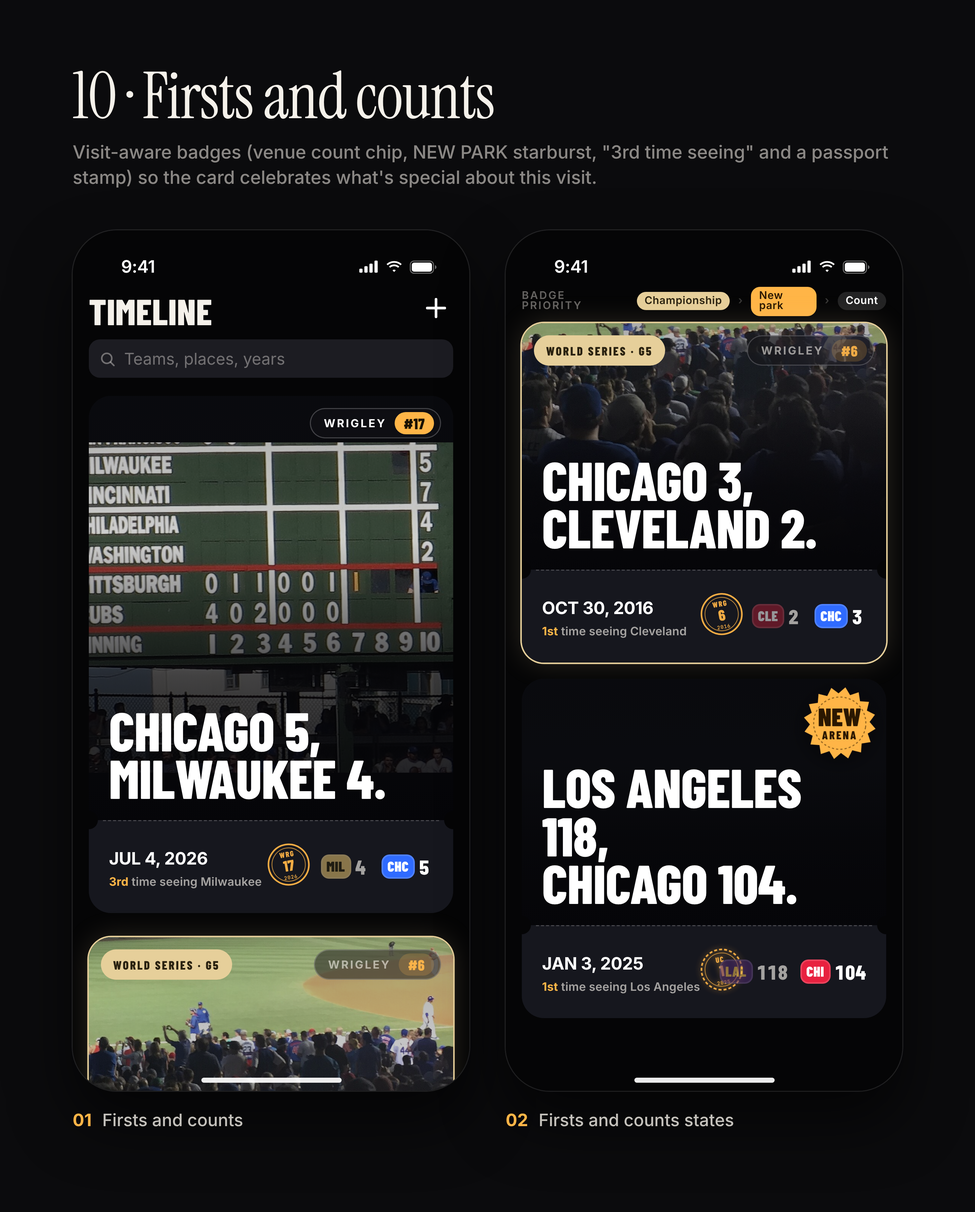
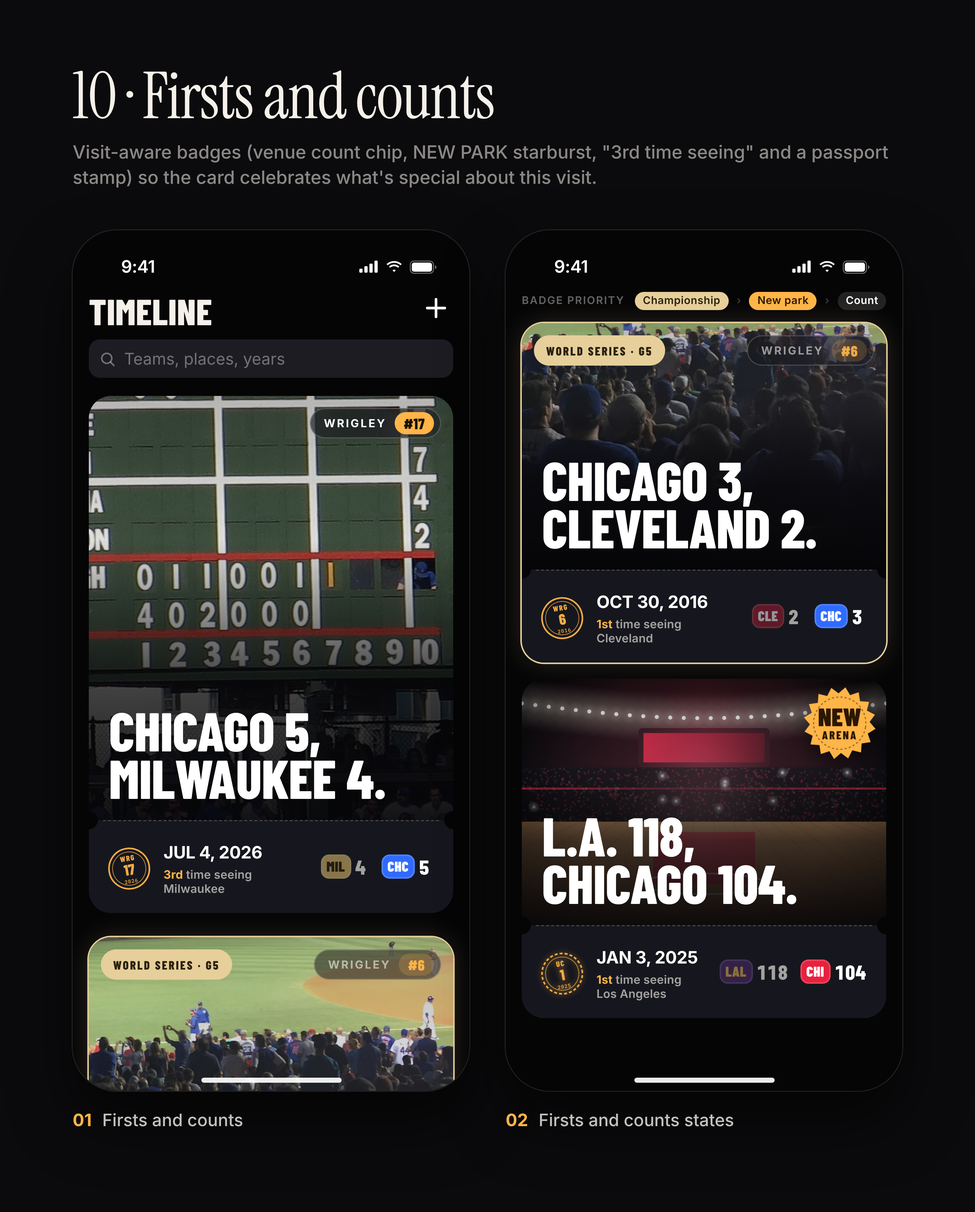
Timeline card tweaks: 05, 06 and in-progress mockups
Claude-Session: https://claude.ai/code/session_01YKCsRGYnDsF5Pryete24Wa

diff --git a/mockups/timeline-cards/features/04-people-photos/v1-main.html b/mockups/timeline-cards/features/04-people-photos/v1-main.html
@@ -1,0 +1,60 @@
+<!doctype html>
+<html><head><meta charset="utf-8"><title>People and photos</title>
+<link rel="stylesheet" href="../../../kit/kit.css">
+<style>
+:root{--trophy:#e6c987;--stub:#171926}
+.hdr h1{position:absolute;left:16px;top:56px;font:800 36px/40px var(--f-cond);letter-spacing:.2px;text-transform:uppercase}
+.hdr .plus{position:absolute;right:16px;top:60px;width:32px;height:32px;display:grid;place-items:center}
+.search{position:absolute;left:16px;right:16px;top:99px;height:36px;border-radius:10px;background:rgba(118,118,128,.24);display:flex;align-items:center;gap:8px;padding:0 10px;color:var(--text-3);font:400 16px var(--f-ui)}
+.card{position:absolute;left:16px;width:361px;border-radius:22px}
+.card.big{box-shadow:0 0 0 1.5px var(--trophy)}
+.clip{border-radius:22px;overflow:hidden;position:relative;background:var(--ink)}
+.photo{position:relative;width:100%;overflow:hidden;background:#0c0d12}
+.photo canvas,.photo>.ph{position:absolute;inset:0;width:100%;height:100%}
+.scrim{position:absolute;inset:0;background:linear-gradient(180deg,rgba(5,5,6,0) 38%,rgba(5,5,6,.55) 62%,rgba(5,5,6,.94) 100%)}
+.scrim.top{background:linear-gradient(180deg,rgba(5,5,6,.45) 0,rgba(5,5,6,0) 22%),linear-gradient(180deg,rgba(5,5,6,0) 38%,rgba(5,5,6,.55) 62%,rgba(5,5,6,.94) 100%)}
+.hl{position:absolute;left:24px;right:24px;bottom:22px;font:800 54px/.93 var(--f-cond);text-transform:uppercase;letter-spacing:.2px;color:#fff}
+.hl.sm{font-size:54px}
+.badge{position:absolute;left:14px;top:14px;height:26px;padding:0 11px;border-radius:13px;display:flex;align-items:center;gap:6px;font:700 11px var(--f-ui);letter-spacing:1.3px;text-transform:uppercase;color:#2a2008;background:linear-gradient(180deg,#f3dba5,#d9b66a)}
+.tile{display:inline-grid;place-items:center;height:22px;min-width:34px;padding:0 6px;border-radius:6px;font:800 13px/1 var(--f-cond);letter-spacing:.8px}
+.stub{position:relative;background:var(--stub);
+ -webkit-mask-image:var(--m);-webkit-mask-composite:source-in;mask-image:var(--m);mask-composite:intersect}
+.stub::before{content:"";position:absolute;left:12px;right:12px;top:0;border-top:1.5px dashed rgba(255,255,255,.2)}
+.tabs{}
+svg.i{width:13px;height:13px;stroke:currentColor;fill:none;stroke-width:1.7;stroke-linecap:round;stroke-linejoin:round;flex:none}
+
+.stub{height:100px;--m:radial-gradient(circle at 0 0,transparent 8px,#000 8.5px),radial-gradient(circle at 100% 0,transparent 8px,#000 8.5px)}
+.sl{position:absolute;left:18px;top:0;bottom:0;display:flex;flex-direction:column;justify-content:center;gap:12px;padding-top:2px}
+.date{font:700 16px/1 var(--f-tight);letter-spacing:.2px;text-transform:uppercase}
+.pp{display:flex;align-items:center;gap:11px}
+.av{display:flex}
+.av i{width:24px;height:24px;border-radius:50%;display:grid;place-items:center;font:800 11px/1 var(--f-ui);font-style:normal;color:#10101a;box-shadow:0 0 0 2px var(--stub);margin-left:-7px}
+.av i:first-child{margin-left:0}
+.av i.ghost{background:transparent;border:1.5px dashed rgba(255,255,255,.3);color:var(--text-3);box-shadow:none}
+.av i.ghost svg{width:11px;height:11px}
+.cnt{display:flex;align-items:center;gap:5px;font:600 12.5px/1 var(--f-ui);color:var(--text);padding-left:11px;border-left:1px solid var(--line-2);height:16px;font-variant-numeric:tabular-nums}
+.cnt svg{color:var(--text-2);width:14px;height:14px}
+.add{display:flex;align-items:center;gap:5px;height:24px;padding:0 10px 0 8px;border-radius:12px;border:1.5px dashed rgba(255,181,71,.6);color:var(--signal);font:700 12px/1 var(--f-ui)}
+.add svg{width:14px;height:14px}
+.bug{position:absolute;right:16px;top:0;bottom:0;display:flex;align-items:center;gap:7px;padding-top:2px}
+.bug .sc{font:800 22px/1 var(--f-cond);font-variant-numeric:tabular-nums;color:var(--text-2)}
+.bug .me{color:#fff}
+.bug .tile.rt{box-shadow:0 0 0 1.5px var(--stub),0 0 0 3px var(--signal)}
+.bug .gap{width:2px}
+.poly{position:absolute;right:12px;bottom:16px;width:74px;height:70px}
+.pl{position:absolute;width:46px;height:56px;padding:3px 3px 11px;background:#f3ece0;border-radius:2px;box-shadow:0 4px 10px rgba(0,0,0,.55),0 0 0 .5px rgba(0,0,0,.4)}
+.pl div{width:100%;height:100%;background-size:cover}
+.pl.a{left:0;bottom:6px;transform:rotate(-10deg)}
+.pl.b{left:13px;bottom:2px;transform:rotate(-2deg)}
+.pl.c{left:26px;bottom:0;transform:rotate(8deg)}
+.pl em{position:absolute;right:-6px;top:-7px;font:800 10px/1 var(--f-ui);font-style:normal;color:#2a1a00;background:var(--signal);padding:4px 6px;border-radius:9px;box-shadow:0 2px 6px rgba(0,0,0,.5)}
+</style></head>
+<body class="phone">
+<div class="hdr"><h1>Timeline</h1><div class="plus"><svg width="22" height="22" viewBox="0 0 24 24" fill="none" stroke="#fff" stroke-width="2.4" stroke-linecap="round"><path d="M12 4v16M4 12h16"/></svg></div></div>
+<div class="search"><svg width="18" height="18" viewBox="0 0 24 24" fill="none" stroke="currentColor" stroke-width="2" stroke-linecap="round"><circle cx="11" cy="11" r="7"/><path d="M20 20l-4-4"/></svg>Teams, places, years</div><div class="card" style="top:157px"><div class="clip">
+<div class="photo" style="height:420px"><img class="ph graded" src="../../../photos/wrigley-scoreboard.jpg" style="object-position:35% 50%"><div class="scrim top"></div><div class="hl" style="font-size:48px">Chicago 5,<br>Milwaukee 4.</div><div class="poly"><div class="pl a"><div style="background-image:url(../../../photos/wrigley-bleachers.jpg);background-position:60% 50%;background-size:cover"></div></div><div class="pl b"><div style="background-image:url(../../../photos/wrigley-night-2.jpg);background-position:72% 66%;background-size:230%"></div></div><div class="pl c"><div style="background-image:url(../../../photos/wrigley-night.jpg);background-position:30% 62%;background-size:210%"></div><em>+59</em></div></div></div>
+<div class="stub"><div class="sl"><span class="date">Jul 4, 2026</span><div class="pp"><span class="av"><i style="background:#b79cff">D</i><i style="background:#8fe3a0">R</i></span><span class="cnt"><svg class="i" viewBox="0 0 24 24"><path d="M4 8.5A1.5 1.5 0 0 1 5.5 7H8l1.4-2h5.2L16 7h2.5A1.5 1.5 0 0 1 20 8.5v9a1.5 1.5 0 0 1-1.5 1.5h-13A1.5 1.5 0 0 1 4 17.5z"/><circle cx="12" cy="13" r="3.4"/></svg>63 photos</span></div></div><div class="bug"><span class="tile" style="background:#f4c24b;color:#1a1405">MIL</span><span class="sc">4</span><span class="gap"></span><span class="tile rt" style="background:#2f6bff;color:#fff">CHC</span><span class="sc me">5</span></div></div></div></div><div class="card big" style="top:701px"><div class="clip">
+<div class="photo" style="height:420px"><div style="position:absolute;inset:0;background:url(../../../photos/wrigley-night.jpg) -306px -418px/785px 1046px no-repeat"></div><div class="scrim top"></div><div class="badge"><svg width="11" height="11" viewBox="0 0 24 24" fill="#2a2008"><path d="M12 2l2.9 6.6 7.1.6-5.4 4.7 1.6 7L12 17.3 5.8 20.9l1.6-7L2 9.2l7.1-.6z"/></svg>World Series</div><div class="hl" style="font-size:48px">Chicago 3,<br>Cleveland 2.</div><div class="poly"><div class="pl a"><div style="background-image:url(../../../photos/wrigley-bleachers.jpg);background-position:30% 50%;background-size:cover"></div></div><div class="pl b"><div style="background-image:url(../../../photos/wrigley-night-2.jpg);background-position:72% 66%;background-size:230%"></div></div><div class="pl c"><div style="background-image:url(../../../photos/wrigley-scoreboard-wide.jpg);background-position:25% 60%;background-size:240%"></div><em>+59</em></div></div></div>
+<div class="stub"><div class="sl"><span class="date">Oct 30, 2016</span><div class="pp"><span class="av"><i style="background:#8fe3a0">R</i></span><span class="cnt"><svg class="i" viewBox="0 0 24 24"><path d="M4 8.5A1.5 1.5 0 0 1 5.5 7H8l1.4-2h5.2L16 7h2.5A1.5 1.5 0 0 1 20 8.5v9a1.5 1.5 0 0 1-1.5 1.5h-13A1.5 1.5 0 0 1 4 17.5z"/><circle cx="12" cy="13" r="3.4"/></svg>63 photos</span></div></div><div class="bug"><span class="tile" style="background:#0c2340;color:#ff5a6e">CLE</span><span class="sc">2</span><span class="gap"></span><span class="tile rt" style="background:#2f6bff;color:#fff">CHC</span><span class="sc me">3</span></div></div></div></div>
+<script src="../../../kit/kit.js"></script>
+</body></html>

diff --git a/mockups/timeline-cards/features/04-people-photos/v2-states.html b/mockups/timeline-cards/features/04-people-photos/v2-states.html
@@ -1,0 +1,59 @@
+<!doctype html>
+<html><head><meta charset="utf-8"><title>People and photos states</title>
+<link rel="stylesheet" href="../../../kit/kit.css">
+<style>
+:root{--trophy:#e6c987;--stub:#171926}
+.hdr h1{position:absolute;left:16px;top:56px;font:800 36px/40px var(--f-cond);letter-spacing:.2px;text-transform:uppercase}
+.hdr .plus{position:absolute;right:16px;top:60px;width:32px;height:32px;display:grid;place-items:center}
+.search{position:absolute;left:16px;right:16px;top:99px;height:36px;border-radius:10px;background:rgba(118,118,128,.24);display:flex;align-items:center;gap:8px;padding:0 10px;color:var(--text-3);font:400 16px var(--f-ui)}
+.card{position:absolute;left:16px;width:361px;border-radius:22px}
+.card.big{box-shadow:0 0 0 1.5px var(--trophy)}
+.clip{border-radius:22px;overflow:hidden;position:relative;background:var(--ink)}
+.photo{position:relative;width:100%;overflow:hidden;background:#0c0d12}
+.photo canvas,.photo>.ph{position:absolute;inset:0;width:100%;height:100%}
+.scrim{position:absolute;inset:0;background:linear-gradient(180deg,rgba(5,5,6,0) 38%,rgba(5,5,6,.55) 62%,rgba(5,5,6,.94) 100%)}
+.scrim.top{background:linear-gradient(180deg,rgba(5,5,6,.45) 0,rgba(5,5,6,0) 22%),linear-gradient(180deg,rgba(5,5,6,0) 38%,rgba(5,5,6,.55) 62%,rgba(5,5,6,.94) 100%)}
+.hl{position:absolute;left:24px;right:24px;bottom:22px;font:800 54px/.93 var(--f-cond);text-transform:uppercase;letter-spacing:.2px;color:#fff}
+.hl.sm{font-size:54px}
+.badge{position:absolute;left:14px;top:14px;height:26px;padding:0 11px;border-radius:13px;display:flex;align-items:center;gap:6px;font:700 11px var(--f-ui);letter-spacing:1.3px;text-transform:uppercase;color:#2a2008;background:linear-gradient(180deg,#f3dba5,#d9b66a)}
+.tile{display:inline-grid;place-items:center;height:22px;min-width:34px;padding:0 6px;border-radius:6px;font:800 13px/1 var(--f-cond);letter-spacing:.8px}
+.stub{position:relative;background:var(--stub);
+ -webkit-mask-image:var(--m);-webkit-mask-composite:source-in;mask-image:var(--m);mask-composite:intersect}
+.stub::before{content:"";position:absolute;left:12px;right:12px;top:0;border-top:1.5px dashed rgba(255,255,255,.2)}
+.tabs{}
+svg.i{width:13px;height:13px;stroke:currentColor;fill:none;stroke-width:1.7;stroke-linecap:round;stroke-linejoin:round;flex:none}
+
+.stub{height:100px;--m:radial-gradient(circle at 0 0,transparent 8px,#000 8.5px),radial-gradient(circle at 100% 0,transparent 8px,#000 8.5px)}
+.sl{position:absolute;left:18px;top:0;bottom:0;display:flex;flex-direction:column;justify-content:center;gap:12px;padding-top:2px}
+.date{font:700 16px/1 var(--f-tight);letter-spacing:.2px;text-transform:uppercase}
+.pp{display:flex;align-items:center;gap:11px}
+.av{display:flex}
+.av i{width:24px;height:24px;border-radius:50%;display:grid;place-items:center;font:800 11px/1 var(--f-ui);font-style:normal;color:#10101a;box-shadow:0 0 0 2px var(--stub);margin-left:-7px}
+.av i:first-child{margin-left:0}
+.av i.ghost{background:transparent;border:1.5px dashed rgba(255,255,255,.3);color:var(--text-3);box-shadow:none}
+.av i.ghost svg{width:11px;height:11px}
+.cnt{display:flex;align-items:center;gap:5px;font:600 12.5px/1 var(--f-ui);color:var(--text);padding-left:11px;border-left:1px solid var(--line-2);height:16px;font-variant-numeric:tabular-nums}
+.cnt svg{color:var(--text-2);width:14px;height:14px}
+.add{display:flex;align-items:center;gap:5px;height:24px;padding:0 10px 0 8px;border-radius:12px;border:1.5px dashed rgba(255,181,71,.6);color:var(--signal);font:700 12px/1 var(--f-ui)}
+.add svg{width:14px;height:14px}
+.bug{position:absolute;right:16px;top:0;bottom:0;display:flex;align-items:center;gap:7px;padding-top:2px}
+.bug .sc{font:800 22px/1 var(--f-cond);font-variant-numeric:tabular-nums;color:var(--text-2)}
+.bug .me{color:#fff}
+.bug .tile.rt{box-shadow:0 0 0 1.5px var(--stub),0 0 0 3px var(--signal)}
+.bug .gap{width:2px}
+.poly{position:absolute;right:12px;bottom:16px;width:74px;height:70px}
+.pl{position:absolute;width:46px;height:56px;padding:3px 3px 11px;background:#f3ece0;border-radius:2px;box-shadow:0 4px 10px rgba(0,0,0,.55),0 0 0 .5px rgba(0,0,0,.4)}
+.pl div{width:100%;height:100%;background-size:cover}
+.pl.a{left:0;bottom:6px;transform:rotate(-10deg)}
+.pl.b{left:13px;bottom:2px;transform:rotate(-2deg)}
+.pl.c{left:26px;bottom:0;transform:rotate(8deg)}
+.pl em{position:absolute;right:-6px;top:-7px;font:800 10px/1 var(--f-ui);font-style:normal;color:#2a1a00;background:var(--signal);padding:4px 6px;border-radius:9px;box-shadow:0 2px 6px rgba(0,0,0,.5)}
+</style></head>
+<body class="phone">
+<div class="card big" style="top:68px"><div class="clip">
+<div class="photo" style="height:244px"><div style="position:absolute;inset:0;background:url(../../../photos/wrigley-night.jpg) -306px -506px/785px 1046px no-repeat"></div><div class="scrim top"></div><div class="badge"><svg width="11" height="11" viewBox="0 0 24 24" fill="#2a2008"><path d="M12 2l2.9 6.6 7.1.6-5.4 4.7 1.6 7L12 17.3 5.8 20.9l1.6-7L2 9.2l7.1-.6z"/></svg>World Series</div><div class="hl" style="font-size:48px">Chicago 3,<br>Cleveland 2.</div><div class="poly"><div class="pl a"><div style="background-image:url(../../../photos/wrigley-bleachers.jpg);background-position:30% 50%;background-size:cover"></div></div><div class="pl b"><div style="background-image:url(../../../photos/wrigley-night-2.jpg);background-position:72% 66%;background-size:230%"></div></div><div class="pl c"><div style="background-image:url(../../../photos/wrigley-scoreboard-wide.jpg);background-position:25% 60%;background-size:240%"></div><em>+59</em></div></div></div>
+<div class="stub"><div class="sl"><span class="date">Oct 30, 2016</span><div class="pp"><span class="av"><i style="background:#8fe3a0">R</i></span><span class="cnt"><svg class="i" viewBox="0 0 24 24"><path d="M4 8.5A1.5 1.5 0 0 1 5.5 7H8l1.4-2h5.2L16 7h2.5A1.5 1.5 0 0 1 20 8.5v9a1.5 1.5 0 0 1-1.5 1.5h-13A1.5 1.5 0 0 1 4 17.5z"/><circle cx="12" cy="13" r="3.4"/></svg>63 photos</span></div></div><div class="bug"><span class="tile" style="background:#0c2340;color:#ff5a6e">CLE</span><span class="sc">2</span><span class="gap"></span><span class="tile rt" style="background:#2f6bff;color:#fff">CHC</span><span class="sc me">3</span></div></div></div></div><div class="card" style="top:434px"><div class="clip">
+<div class="photo" style="height:244px"><canvas class="photo" data-style="arena" data-seed="11" data-accent="#e8213f" data-secondary="#552583" data-board="LAL 118|CHI 104"></canvas><div class="scrim top"></div><div class="hl" style="font-size:46px">Los Angeles 118,<br>Chicago 104.</div></div>
+<div class="stub"><div class="sl"><span class="date">Jan 3, 2025</span><div class="pp"><span class="av"><i class="ghost"><svg class="i" viewBox="0 0 24 24"><path d="M12 5v14M5 12h14"/></svg></i></span><span class="add"><svg class="i" viewBox="0 0 24 24"><path d="M4 8.5A1.5 1.5 0 0 1 5.5 7H8l1.4-2h5.2L16 7h2.5A1.5 1.5 0 0 1 20 8.5v9a1.5 1.5 0 0 1-1.5 1.5h-13A1.5 1.5 0 0 1 4 17.5z"/><circle cx="12" cy="13" r="3.4"/></svg>Add photos</span></div></div><div class="bug"><span class="tile" style="background:#552583;color:#fdb927">LAL</span><span class="sc">118</span><span class="gap"></span><span class="tile rt" style="background:#e8213f;color:#fff">CHI</span><span class="sc me">104</span></div></div></div></div>
+<script src="../../../kit/kit.js"></script>
+</body></html>

diff --git a/mockups/timeline-cards/features/10-firsts-and-counts/v2-states.html b/mockups/timeline-cards/features/10-firsts-and-counts/v2-states.html
@@ -57,7 +57,7 @@
  <div class="ph2" style="height:244px"><canvas class="photo" data-style="arena" data-seed="11" data-accent="#e8213f" data-secondary="#3a0b14"></canvas><div class="scrim"></div><div class="burst"><svg viewBox="0 0 72 72"><polygon points="36.0,2.0 41.5,8.5 49.0,4.6 51.6,12.7 60.0,12.0 59.3,20.4 67.4,23.0 63.5,30.5 70.0,36.0 63.5,41.5 67.4,49.0 59.3,51.6 60.0,60.0 51.6,59.3 49.0,67.4 41.5,63.5 36.0,70.0 30.5,63.5 23.0,67.4 20.4,59.3 12.0,60.0 12.7,51.6 4.6,49.0 8.5,41.5 2.0,36.0 8.5,30.5 4.6,23.0 12.7,20.4 12.0,12.0 20.4,12.7 23.0,4.6 30.5,8.5" fill="#ffb547"/><circle cx="36" cy="36" r="24.5" fill="none" stroke="#3a2200" stroke-width="1" stroke-dasharray="2 2" opacity=".55"/></svg><div><b>NEW</b><em>ARENA</em></div></div>
   <div class="hl"><h2>L.A. 118,<br>Chicago 104.</h2></div></div>
  <div class="stub" style="background:#16171e"><div class="notch l"></div><div class="notch r"></div>
-  <div style="position:absolute;left:74px;top:24px"><div class="date">Jan 3, 2025</div><div class="sub" style="margin-top:7px;max-width:128px"><b>1st</b> time seeing Los Angeles</div></div>
+  <div style="position:absolute;left:74px;top:24px"><div class="date">Jan 3, 2025</div><div class="sub" style="margin-top:7px;max-width:128px"><b>1st</b> time seeing Los&nbsp;Angeles</div></div>
   <div class="stampw"><svg class="stamp" viewBox="0 0 44 44" style="transform:rotate(-10deg)" filter="drop-shadow(0 0 3px rgba(255,181,71,.7))"><circle cx="22" cy="22" r="20" fill="none" stroke="#ffb547" stroke-width="1.6" stroke-dasharray="3 2"/><circle cx="22" cy="22" r="16.5" fill="none" stroke="#ffb547" stroke-width=".7" opacity=".8"/>
 <text x="22" y="14.5" text-anchor="middle" font-family="Barlow Condensed" font-weight="800" font-size="7.5" letter-spacing=".8" fill="#ffb547">UC</text>
 <text x="22" y="28.5" text-anchor="middle" font-family="Barlow Condensed" font-weight="800" font-size="15" fill="#ffb547">1</text>

diff --git a/mockups/timeline-cards/png/04-people-photos/_sheet.html b/mockups/timeline-cards/png/04-people-photos/_sheet.html
@@ -1,0 +1,13 @@
+<html><head><link rel="stylesheet" href="file:///home/user/SportsApp/mockups/kit/kit.css"><style>
+      html,body{width:auto;height:auto;overflow:visible;background:#0b0b0d;color:#f5f1ea;font-family:Inter,sans-serif}
+      body{padding:64px 72px 72px}
+      h1{font:400 64px/1 'Instrument Serif',serif;letter-spacing:-1px;margin-bottom:10px}
+      p{font:500 18px/1.4 Inter;color:rgba(245,241,234,.55);margin-bottom:40px;max-width:1400px}
+      .row{display:flex;gap:36px}
+      figure{width:393px}
+      img{width:393px;height:852px;border-radius:44px;display:block;box-shadow:0 0 0 1px rgba(255,255,255,.1),0 30px 60px rgba(0,0,0,.6)}
+      figcaption{margin-top:18px;font:500 17px/1.3 Inter;color:rgba(245,241,234,.8)}
+      figcaption b{color:#ffb547;margin-right:6px}
+    </style></head><body><h1>People and photos</h1><p>The stub shows who you went with and how many photos you took, and a stacked polaroid strip on the photo hints that the night is full of memories.</p><div class="row">
+      <figure><img src="file:///home/user/SportsApp/mockups/timeline-cards/png/04-people-photos/v1-main.png"><figcaption><b>01</b> People and photos</figcaption></figure>
+      <figure><img src="file:///home/user/SportsApp/mockups/timeline-cards/png/04-people-photos/v2-states.png"><figcaption><b>02</b> People and photos states</figcaption></figure></div></body></html>

diff --git a/mockups/timeline-cards/features/04-people-photos/build.py b/mockups/timeline-cards/features/04-people-photos/build.py
@@ -1,0 +1,63 @@
+from common import *
+CSS = """
+.stub{height:100px;--m:radial-gradient(circle at 0 0,transparent 8px,#000 8.5px),radial-gradient(circle at 100% 0,transparent 8px,#000 8.5px)}
+.sl{position:absolute;left:18px;top:0;bottom:0;display:flex;flex-direction:column;justify-content:center;gap:12px;padding-top:2px}
+.date{font:700 16px/1 var(--f-tight);letter-spacing:.2px;text-transform:uppercase}
+.pp{display:flex;align-items:center;gap:11px}
+.av{display:flex}
+.av i{width:24px;height:24px;border-radius:50%;display:grid;place-items:center;font:800 11px/1 var(--f-ui);font-style:normal;color:#10101a;box-shadow:0 0 0 2px var(--stub);margin-left:-7px}
+.av i:first-child{margin-left:0}
+.av i.ghost{background:transparent;border:1.5px dashed rgba(255,255,255,.3);color:var(--text-3);box-shadow:none}
+.av i.ghost svg{width:11px;height:11px}
+.cnt{display:flex;align-items:center;gap:5px;font:600 12.5px/1 var(--f-ui);color:var(--text);padding-left:11px;border-left:1px solid var(--line-2);height:16px;font-variant-numeric:tabular-nums}
+.cnt svg{color:var(--text-2);width:14px;height:14px}
+.add{display:flex;align-items:center;gap:5px;height:24px;padding:0 10px 0 8px;border-radius:12px;border:1.5px dashed rgba(255,181,71,.6);color:var(--signal);font:700 12px/1 var(--f-ui)}
+.add svg{width:14px;height:14px}
+.bug{position:absolute;right:16px;top:0;bottom:0;display:flex;align-items:center;gap:7px;padding-top:2px}
+.bug .sc{font:800 22px/1 var(--f-cond);font-variant-numeric:tabular-nums;color:var(--text-2)}
+.bug .me{color:#fff}
+.bug .tile.rt{box-shadow:0 0 0 1.5px var(--stub),0 0 0 3px var(--signal)}
+.bug .gap{width:2px}
+.poly{position:absolute;right:12px;bottom:16px;width:74px;height:70px}
+.pl{position:absolute;width:46px;height:56px;padding:3px 3px 11px;background:#f3ece0;border-radius:2px;box-shadow:0 4px 10px rgba(0,0,0,.55),0 0 0 .5px rgba(0,0,0,.4)}
+.pl div{width:100%;height:100%;background-size:cover}
+.pl.a{left:0;bottom:6px;transform:rotate(-10deg)}
+.pl.b{left:13px;bottom:2px;transform:rotate(-2deg)}
+.pl.c{left:26px;bottom:0;transform:rotate(8deg)}
+.pl em{position:absolute;right:-6px;top:-7px;font:800 10px/1 var(--f-ui);font-style:normal;color:#2a1a00;background:var(--signal);padding:4px 6px;border-radius:9px;box-shadow:0 2px 6px rgba(0,0,0,.5)}
+"""
+def thumb(photo, pos, size='cover'):
+    return f'<div style="background-image:url({P}{photo}.jpg);background-position:{pos};background-size:{size}"></div>'
+def card(c, top, ph_h):
+    av = ''.join(f'<i style="background:{col}">{ini}</i>' for ini, col in c['who'])
+    if not av: av = '<i class="ghost">'+ICON['plus']+'</i>'
+    cnt = f'<span class="cnt">{ICON["camera"]}{c["n"]} photos</span>' if c['n'] else f'<span class="add">{ICON["camera"]}Add photos</span>'
+    if not c['n']: cnt = cnt.replace('class="add"','class="add"')
+    a, as_, h, hs, me = c['bug'][:5]
+    rt = lambda x: ' rt' if x == me else ''
+    bug = f'<div class="bug">{tile(a).replace("class=\"tile\"", "class=\"tile"+rt(a)+"\"")}<span class="sc">{as_}</span><span class="gap"></span>{tile(h).replace("class=\"tile\"", "class=\"tile"+rt(h)+"\"")}<span class="sc me">{hs}</span></div>'
+    poly = ''
+    if c['n']:
+        t = c['thumbs']
+        poly = f'<div class="poly"><div class="pl a">{thumb(*t[0])}</div><div class="pl b">{thumb(*t[1])}</div><div class="pl c">{thumb(*t[2])}<em>+{c["n"]-4}</em></div></div>'
+    badge = f'<div class="badge"><svg width="11" height="11" viewBox="0 0 24 24" fill="#2a2008"><path d="M12 2l2.9 6.6 7.1.6-5.4 4.7 1.6 7L12 17.3 5.8 20.9l1.6-7L2 9.2l7.1-.6z"/></svg>{c["badge"]}</div>' if c.get('badge') else ''
+    return f"""<div class="card{' big' if c.get('badge') else ''}" style="top:{top}px"><div class="clip">
+<div class="photo" style="height:{ph_h}px">{c['photo'](ph_h)}<div class="scrim top"></div>{badge}<div class="hl" style="{c.get('hs','font-size:48px')}">{c['hl']}</div>{poly}</div>
+<div class="stub"><div class="sl"><span class="date">{c['date']}</span><div class="pp"><span class="av">{av}</span>{cnt}</div></div>{bug}</div></div></div>"""
+def img(photo, cx, cy, wf):
+    return lambda ph: f'<div style="position:absolute;inset:0;{bg(photo,361,ph,cx,cy,wf)}"></div>'
+DANA=('D','#b79cff'); DAD=('R','#8fe3a0')
+CARDS = {
+ 1: dict(hl='Chicago 5,<br>Milwaukee 4.', date='Jul 4, 2026', who=[DANA,DAD], n=63,
+   photo=lambda ph: f'<img class="ph graded" src="{P}wrigley-scoreboard.jpg" style="object-position:35% 50%">', bug=('MIL',4,'CHC',5,'CHC'),
+   thumbs=[('wrigley-bleachers','60% 50%'),('wrigley-night-2','72% 66%','230%'),('wrigley-night','30% 62%','210%')]),
+ 2: dict(hl='Chicago 3,<br>Cleveland 2.', date='Oct 30, 2016', who=[DAD], n=63, badge='World Series',
+   photo=img('wrigley-night',.62,.60,.46), bug=('CLE',2,'CHC',3,'CHC'),
+   thumbs=[('wrigley-bleachers','30% 50%'),('wrigley-night-2','72% 66%','230%'),('wrigley-scoreboard-wide','25% 60%','240%')]),
+ 3: dict(hl='Los Angeles 118,<br>Chicago 104.', hs='font-size:46px', date='Jan 3, 2025', who=[], n=0,
+   photo=lambda ph: '<canvas class="photo" data-style="arena" data-seed="11" data-accent="#e8213f" data-secondary="#552583" data-board="LAL 118|CHI 104"></canvas>', bug=('LAL',118,'CHI',104,'CHI')),
+}
+v1 = head() + card(CARDS[1], 157, 420) + card(CARDS[2], 157+420+100+24, 420)
+open('v1-main.html','w').write(page('People and photos', CSS, v1))
+v2 = card(CARDS[2], 68, 244) + card(CARDS[3], 68+244+100+22, 244)
+open('v2-states.html','w').write(page('People and photos states', CSS, v2))

diff --git a/mockups/timeline-cards/features/09-your-team/gen.py b/mockups/timeline-cards/features/09-your-team/gen.py
@@ -135,7 +135,7 @@ def fc_card(n, top, ph):
              top='count', cnt=('WRIGLEY','#17'), stamp=('WRG','17','2026',False)),
      2: dict(head='Chicago 3,<br>Cleveland 2.', date='Oct 30, 2016', sub='<b>1st</b> time seeing Cleveland', a=('CLE',2), h=('CHC',3), me='CHC', champ=True,
              top='champ+count', cnt=('WRIGLEY','#6'), stamp=('WRG','6','2016',False)),
-     3: dict(head='L.A. 118,<br>Chicago 104.', date='Jan 3, 2025', sub='<b>1st</b> time seeing Los Angeles', a=('LAL',118), h=('CHI',104), me='CHI', champ=False,
+     3: dict(head='L.A. 118,<br>Chicago 104.', date='Jan 3, 2025', sub='<b>1st</b> time seeing Los&nbsp;Angeles', a=('LAL',118), h=('CHI',104), me='CHI', champ=False,
              top='new', cnt=None, stamp=('UC','1','2025',True)),
     }[n]
     tl = tr = ''

diff --git a/mockups/timeline-cards/features/04-people-photos/NOTES.md b/mockups/timeline-cards/features/04-people-photos/NOTES.md
@@ -1,0 +1,5 @@
+- Stub (100pt): date stays left, under it stacked initials avatars (Dana, Dad in their colours) and "63 photos" with a camera glyph; score bug stays right, rooted tile ringed amber.
+- On the photo, three stacked polaroids peek at the bottom-right with a "+59" chip, so the card says "this night has a lot in it".
+- No-photo card: dashed ghost avatar and an amber dashed "Add photos" pill replace the counts, and the polaroids are gone.
+- Data: companions (initials+colour), photo count, 3 extra photo thumbnails. Seat/section is dropped from the stub.
+- Risk: polaroids sit in the headline's bottom-right corner; "MILWAUKEE 4." runs close to them. Long 3-line headlines would collide.

diff --git a/mockups/timeline-cards/features/03-fact-stub/NOTES.md b/mockups/timeline-cards/features/03-fact-stub/NOTES.md
@@ -1,0 +1,4 @@
+- Stub grows 92 to 100pt: row one is date + Sec/Row, row two is weather, attendance, game length, ticket glyph (amber) split by hairlines.
+- Score bug moves into a tear-off section behind a dashed perforation with half-moon notches; bug is stacked, rooted team ringed in amber, FINAL · W/L label.
+- Data: weather, attendance, duration (new fields), seat row, ticket-attached flag. Indoor venues swap weather for "Indoors"; ticket glyph hidden when no ticket.
+- Risk: row two is full at ~237pt wide; a fifth fact will not fit. Three-digit scores (NBA) fit the tear-off but only just. Long NBA headline needs 46pt to stay on two lines.
